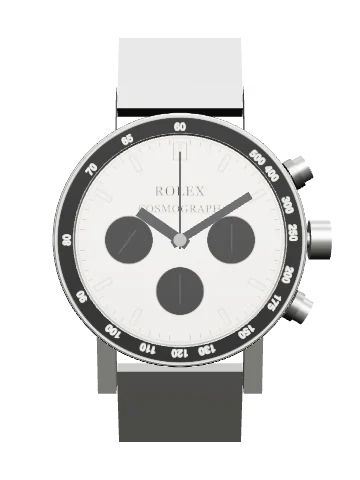
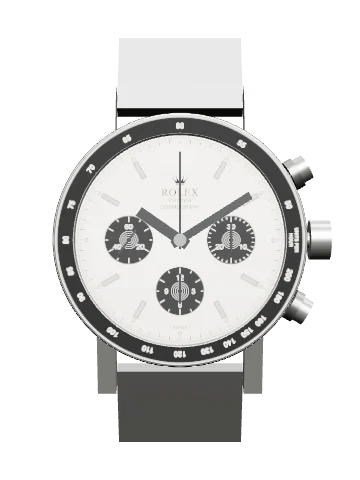
Daytona 6263 front checked against photographs: bezel to 200 with Units per Hour, coronet and three lines of lettering, fifths track, bars and luminous dots, register figures

diff --git a/draw.js b/draw.js
@@ -167,6 +167,13 @@ function bezel(w, g) {
     if (b.first15) for (let m = 1; m < 15; m++) if (m % 5) s += rad(m * 6, ri + 0.35, ri + 1.25, 't');
   } else if (b.type === 'tachy') {
     s += C(R - 0.4, 0, 0, 'tn') + C(ri, 0, 0, 'p');
+    if (b.scale === '6263') { /* the acrylic insert of the Daytona 6263, read from dealers' photographs: these figures, running to 200, each at 3600 divided by its value, in seconds,
+         with a mark beside it; and UNITS PER HOUR on two lines at three o'clock. The typeface is an approximation. */
+      const rm = (R - 0.4 + ri) / 2 + 0.12, sz = Math.min(b.w * 0.36, 1.1);
+      [200, 180, 160, 150, 140, 130, 120, 110, 100, 90, 85, 80, 75, 70, 65, 60, 55, 50].forEach(v => { const a = 21600 / v % 360; s += T(v, 0, 0, sz, 'tx bz', `transform="rotate(${f(a)}) translate(0,${f(-rm + sz * 0.36)})"`) + rad(a, ri + 0.08, ri + 0.4, 't'); });
+      s += T('UNITS PER', 0, 0, sz * 0.62, 'tx bz', `transform="rotate(90) translate(0,${f(-rm - 0.12)})"`) + T('HOUR', 0, 0, sz * 0.62, 'tx bz', `transform="rotate(90) translate(0,${f(-rm + 0.72)})"`);
+      return s;
+    }
     if (b.scale === '105') { /* the insert of the Speedmaster 105.003, read from photographs: these figures, each nearly level and not turned to follow the ring; the word TACHYMÈTRE after twelve;
          a dot above the 90, and dots beside the 75 and the 70. Each figure stands at 3600 divided by its value, in seconds. The slight lean of the figures is approximated, and the fine marks between them are left out. */
       const rm = (R - 0.4 + ri) / 2 + 0.1, sz = Math.min(b.w * 0.36, 1.15), dg = Math.PI / 180;
@@ -222,6 +229,10 @@ function markers(w, g, skip) {
       for (let h = 0; h < 12; h++) { const q = h && h % 3 === 0, wd = h ? 0.75 : 1.5, r = E(h * 30); s += bat(h, q ? 1.3 : 3.7, wd, 'p ap', 1.0); (h ? [0] : [-0.42, 0.42]).forEach(dx => { s += `<circle class="p" r="0.2" cx="${dx}" cy="${f(-r + 0.62)}" transform="rotate(${h * 30})"/>`; }); }
       break;
     case 'a386': s += ticks(0.6, 0.2); each(h => bat(h, 2.9, 0.8, 'p ap', 0.9) + bat(h, 2.5, 0.3, 'p', 1.1)); break; // applied steel bars, each with a luminous strip down it; a single bar at twelve, none at the registers
+    case 'daytona': // the 6263's dial, from dealers' photographs: a track in fifths of a second, applied steel bars at eight of the hours with a luminous dot outside each, dots alone at three, six and nine, and nothing at twelve, where the coronet sits
+      for (let i = 0; i < 300; i++) { const a = i * 1.2, r = E(a) - 0.2; s += i % 5 ? rad(a, r - 0.45, r, 'hair') : rad(a, r - 0.8, r, 't'); }
+      for (let h = 1; h < 12; h++) { const p = P(h * 30, E(h * 30) - 1.35); s += C(0.22, p[0], p[1], 'p'); if (h % 3) s += bat(h, 2.7, 0.7, 'p ap', 1.85); }
+      break;
     case 'baton': s += ticks(); each(h => h === 0 ? dbl(2.6, 0.8) : bat(h, 2.6, 0.8)); break;
     case 'block': s += ticks(); each(h => h === 0 ? dbl(2.8, 1.3) : bat(h, 2.6, 1.7)); break;
     case 'sm300': s += ticks(); each(h => h % 3 === 0 ? num(h, h || 12, R0 * 0.25, R0 * 0.7) + bat(h, 1, 1) : bat(h, 3.6, 1.1)); break;
@@ -328,7 +339,7 @@ function subs(w, g, o = {}) {
   for (const [pos, role] of d.subs) {
     if (CAL_ROLES.includes(role)) { s += calSub(w, g, pos, role, o); continue; }
     const [cx, cy] = P(pos * 30, off), tint = d.subTints ? d.subTints[pos] : null;
-    const dr = tint != null && tint >= 0.3 ? ' dkr' : ''; // on the plates, marks on a dark register are drawn pale
+    const dr = (tint != null && tint >= 0.3 ? ' dkr' : '') + (d.subDark ? ' dk2' : ''); // on the plates, marks on a dark register are drawn pale
     const cls = d.subDark ? 'tn2' : d.subLight ? 'p' : (d.dark ? 'tn' : 'p'), sty = tint != null ? `style="fill:var(--sf${pos}, var(--ink));fill-opacity:var(--so, ${tint})"` : ''; // the Workbench's dial picture can give each register its true colour; elsewhere it is a tint of the ink
     s += d.subSquare ? RC(cx - rs, cy - rs, 2 * rs, 2 * rs, cls, 0.9) : C(rs, cx, cy, 'p') + C(rs, cx, cy, cls, sty);
     const n = role === 'min30' ? 30 : 12;
@@ -367,7 +378,7 @@ function dtext(w, g, o) {
     if (q.star != null) s += star(0, R0 * q.star, R0 * 0.05);
     if (q.crown != null) { const u = R0 * 0.075, y0 = R0 * q.crown; s += Pa(polyD([[-.55, 0], [-.95, -.7], [-.45, -.32], [-.5, -.98], [-.12, -.38], [0, -1.12], [.12, -.38], [.5, -.98], [.45, -.32], [.95, -.7], [.55, 0]].map(p => [f(p[0] * u), f(y0 + p[1] * u)])), 'k dl') + [[-.95, -.7], [-.5, -.98], [0, -1.12], [.5, -.98], [.95, -.7]].map(p => C(u * 0.1, p[0] * u, y0 + p[1] * u, 'k dl')).join('') + RC(-0.55 * u, y0 + 0.08 * u, 1.1 * u, 0.12 * u, 'k dl'); }
     q.lines.forEach(l => { s += T(l[0].replace(/&/g, '&amp;'), 0, R0 * l[1], R0 * l[2], 'tx dl', l[3] === 2 ? 'style="font-style:italic"' : l[3] ? sans : 'letter-spacing=".06em"'); }); // 2: a script line, approximated in italic
-    if (q.foot) s += T(q.foot, 0, R0 - 0.12, R0 * 0.042, 'tx dl', sans);
+    if (q.foot) s += T(q.foot, 0, q.footY ? R0 * q.footY : R0 - 0.12, R0 * 0.042, 'tx dl', sans);
     return s;
   }
   /* With registers at three and nine, the second line has to sit above their tops, or its ends run into them; the first line moves up with it. */
@@ -762,7 +773,7 @@ function face(w, real) {
   const mixed = real && !w.dial.dark ? `${w.bezel && w.bezel.dark ? '.bzd .tn{fill:#121212;stroke:#2b2b2b}.bzd text{fill:#f0ede2}.bzd .t,.bzd .hair{stroke:#e9e6da}.bzd .bar{stroke:#e9e6da}.bzd .k{fill:#e9e6da}' : ''}${w.dial.subDark ? '.tn2{fill:#161616;stroke:#2b2b2b}' : ''}` : '';
   const gold = real && w.dial.gold ? '.nm,.cal,.dl{fill:#cfa13a}.hc{fill:#cfa13a;stroke:#4a3c16}.mw{fill:#1b2a55;stroke:#cfa13a;stroke-width:.08}.mn{fill:#e3c060;stroke:none}.t,.hair{stroke:#b08a34}.k{fill:#cfa13a}' : '';
   const gilt = real && w.dial.gilt ? '.dl{fill:#c9a45c}.gt .t{stroke:#c9a45c}' : ''; // printing in gilt, as on the early glossy dials
-  const ap = real && !w.dial.dark ? '.ap{fill:#a7a8a4}.dk{fill:#131313;stroke:#2b2b2b}.dkt{fill:#f1efe7}.dks{stroke:#f1efe7}' : ''; // applied steel bars on a pale dial
+  const ap = real && !w.dial.dark ? '.t.dk2,.hair.dk2{stroke:#ecece8}text.dk2{fill:#ecece8}.ap{fill:#a7a8a4}.dk{fill:#131313;stroke:#2b2b2b}.dkt{fill:#f1efe7}.dks{stroke:#f1efe7}' : ''; // applied steel bars on a pale dial
   const wg = real && w.dial.goldNums ? '.nm,.wg{fill:#c8ad74}.wg{stroke:#4a3c16;stroke-width:.05}' : ''; // applied gilt figures and emblem
   const sf = real && w.dial.subFills ? 'svg{--so:1;' + Object.entries(w.dial.subFills).map(q => `--sf${q[0]}:${q[1][0]}`).join(';') + '}' + Object.entries(w.dial.subFills).filter(q => q[1][1]).map(q => `.sk${q[0]}{stroke:#ecece8}.sn${q[0]}{fill:#ecece8}`).join('') : ''; // each register's colour, and pale marks on the dark ones
   const pinkHands = real && w.dial.goldHands ? '.hc{fill:#cf9a78;stroke:#5a3b2a}.mw{fill:#1b2a55;stroke:#5a3b2a;stroke-width:.08}.mn{fill:#e3c060;stroke:none}' : '';

diff --git a/workbench/watches/daytona-6263.js b/workbench/watches/daytona-6263.js
@@ -56,17 +56,17 @@ export default {
       significance: '', related: ['bezel', 'dial'] },
     { id: 'bezel', name: 'Tachymeter bezel', group: 'Exterior', status: 'D', anchor: [0, 17.4, 4.2], face: 1,
       beginner: 'The black ring with numbers on it. Start the stopwatch at one mile marker and stop it at the next, and the hand points to your speed.',
-      horologist: 'A fixed bezel with a black acrylic insert and a tachymeter scale. Putting the scale here, not on the dial, was the Cosmograph’s defining change.',
+      horologist: 'A fixed bezel with a black acrylic insert and a tachymeter scale that runs to 200, lettered UNITS PER HOUR at three o’clock. The figures are those read from dealers’ photographs of the reference. Putting the scale here, not on the dial, was the Cosmograph’s defining change.',
       fn: 'Converts elapsed seconds over a known distance into speed.', material: 'Steel, acrylic insert',
       significance: 'The black bezel is what distinguishes the 6263 from the steel-bezelled 6265.', related: ['crystal', 'hands'] },
     { id: 'dial', name: 'Dial and registers', group: 'Exterior', status: 'D', anchor: [-8, -1, 2.4], face: 1,
       beginner: 'A light dial with three dark circles. The left one shows running seconds; the right and bottom ones count minutes and hours while the stopwatch runs.',
-      horologist: 'Contrasting registers: 30 minutes at 3, 12 hours at 6, running seconds at 9. The model shows one light-dial configuration; black dials with light registers were also made.',
+      horologist: 'An applied coronet above ROLEX, OYSTER and COSMOGRAPH, and T SWISS T at the foot. Applied steel bars stand at eight of the hours, each with a luminous dot outside it, with dots alone at three, six and nine, inside a track divided into fifths of a second. The model shows the early silver dial, which does not carry the word DAYTONA; later dials add it in red, arched over the register at six, and some carry a small sigma either side of T SWISS T. The lettering is placed from photographs; the coronet and the typefaces are approximations. Contrasting registers: 30 minutes at 3, 12 hours at 6, running seconds at 9. Black dials with light registers were also made.',
       fn: 'Displays the time and elapsed time.', material: 'Metal dial',
       significance: 'Registers in a contrasting colour make elapsed time readable at a glance.', related: ['hands', 'minute-recorder', 'fourth'] },
     { id: 'hands', name: 'Hands', group: 'Exterior', status: 'D', anchor: [3, 9, 3.1], face: 1,
       beginner: 'Hour and minute hands, a long thin stopwatch hand that rests at twelve, and a small hand in each circle.',
-      horologist: 'Baton hands with a central chronograph seconds hand and a hand in each register. The small seconds at 9 runs all the time.',
+      horologist: 'Steel baton hands with luminous strips, a thin dark chronograph seconds hand with a small triangular tip, and a white hand in each black register. The small seconds at 9 runs all the time. In the model the hour and minute hands are drawn dark so that they show against the silver dial, and the tip of the chronograph hand is not shaped.',
       fn: 'Indicate the time and elapsed time.', material: 'Steel',
       significance: '', related: ['dial', 'chrono-runner'] },
     { id: 'case', name: 'Oyster case', group: 'Exterior', status: 'D', anchor: [-15, 17, 0], face: 0,

diff --git a/data.js b/data.js
@@ -16,7 +16,7 @@ window.WATCHES = [
 {
   id:'daytona6263', brand:'Rolex', model:'Cosmograph Daytona', ref:'6263', year:'c. 1970', span:'c. 1970 – 1988', kind:'Chronograph',
   c:{shape:'round', d:37, t:[13,'n'], lug:[19,'v']},
-  bezel:{type:'tachy', w:3.1, dark:true}, dial:{dark:false, markers:'baton', subs:[[3,'min30'],[6,'hr12'],[9,'sec']], subDark:true, text:['ROLEX','COSMOGRAPH']},
+  bezel:{type:'tachy', w:3.1, dark:true, scale:'6263'}, dial:{dark:false, markers:'daytona', subs:[[3,'min30'],[6,'hr12'],[9,'sec']], subDark:true, subNums:true, subRings:true, text:['ROLEX','COSMOGRAPH'], set:{crown:-0.55, lines:[['ROLEX',-0.43,0.1,0],['OYSTER',-0.365,0.05,1],['COSMOGRAPH',-0.305,0.05,1]], foot:'T SWISS T', footY:0.87}},
   hands:'baton', sec:'sub', chrono:true, crown:{pos:3}, pushers:'screw', strap:'oyster',
   mv:{cal:'727 (Valjoux 72 base)', type:'chrono', vph:21600, wind:'Manual', note:'Rolex calibre built on the Valjoux 72, a column-wheel chronograph.'},
   back:{type:'fluted', note:'Screw-down Oyster back with fluted edge.'},
